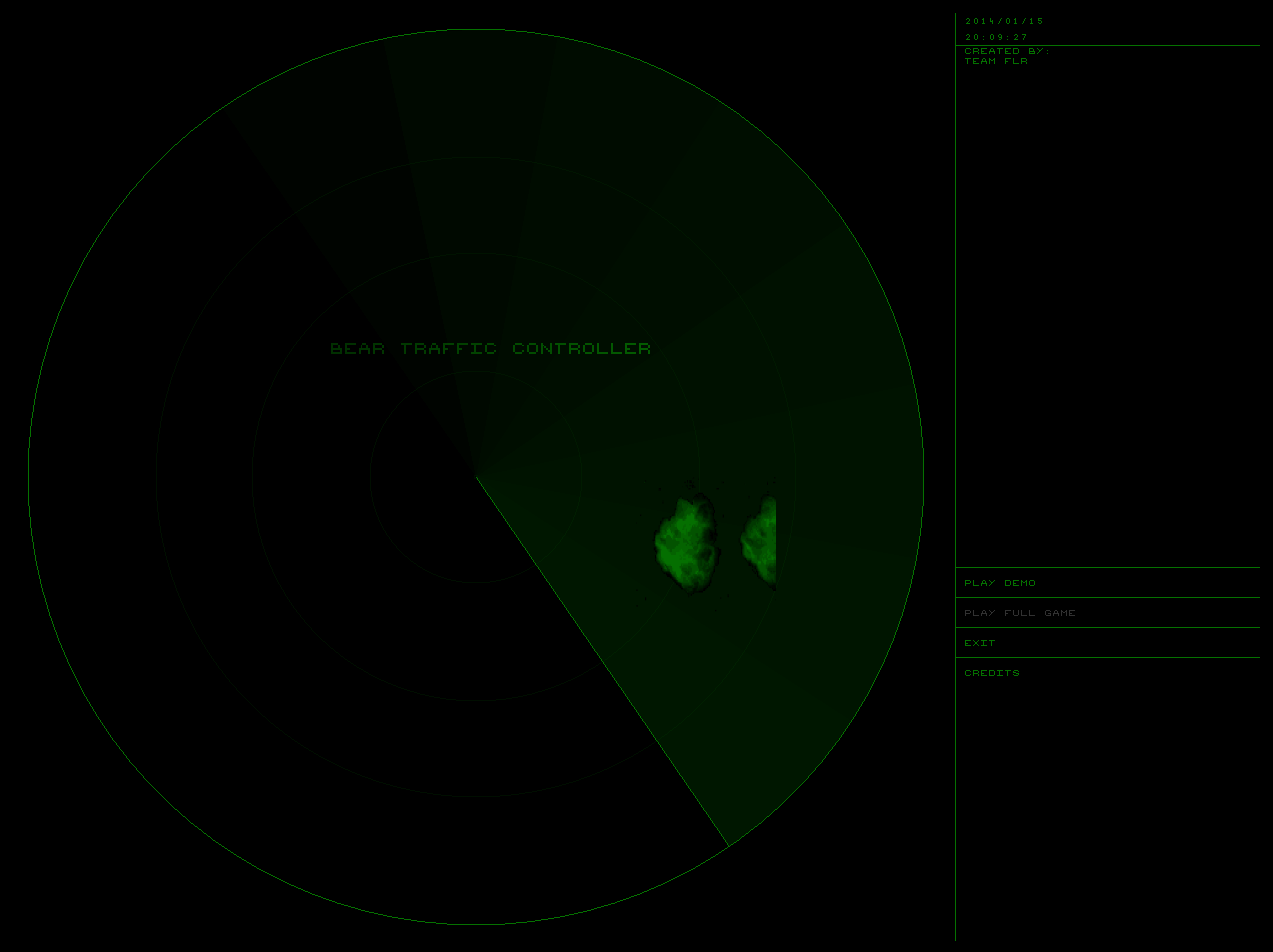
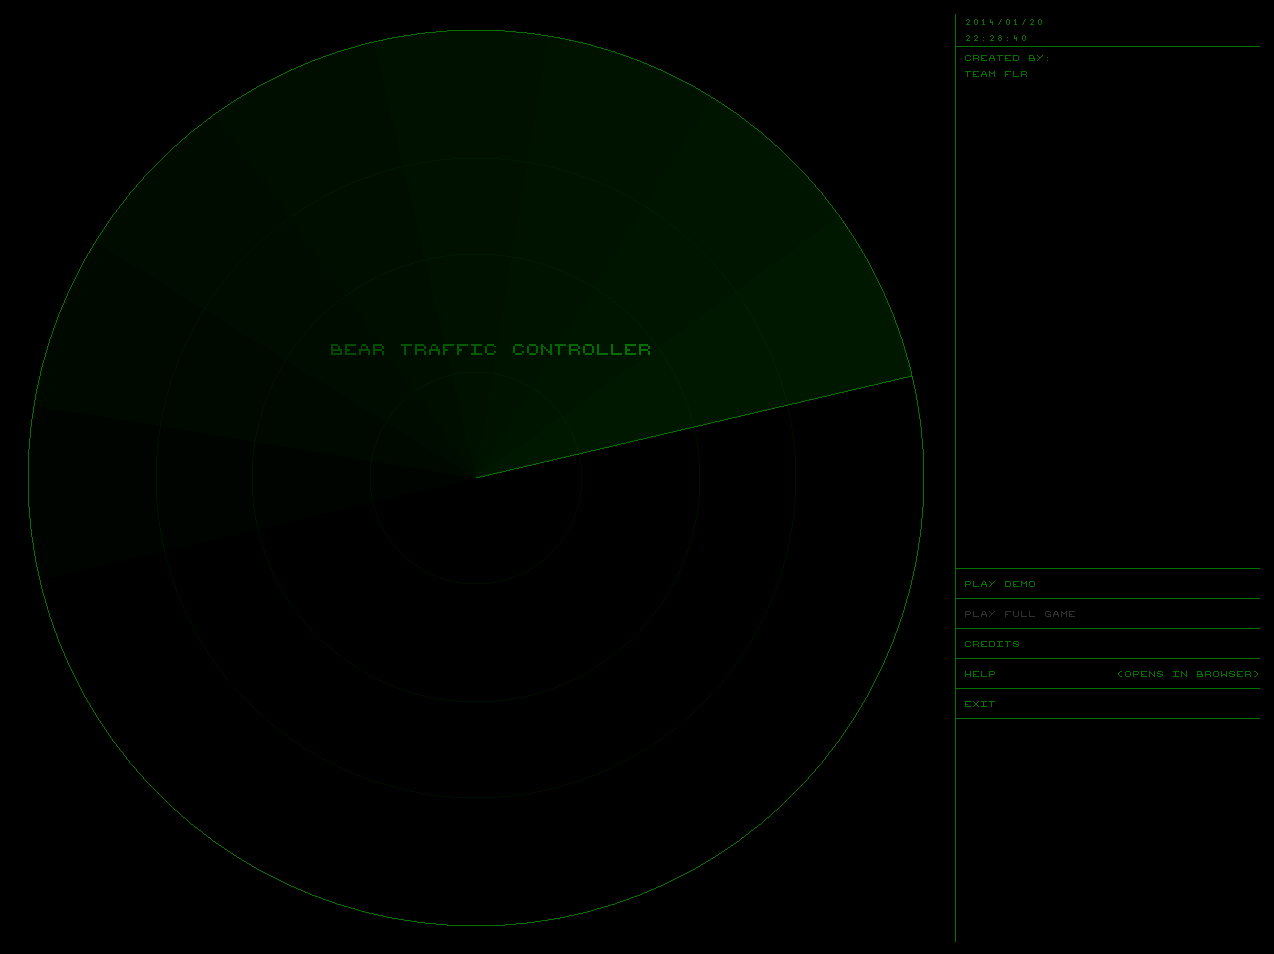
Updated screenshots and user manual

diff --git a/ingamehelp.html b/ingamehelp.html
@@ -99,24 +99,9 @@
     	<div class="col-lg-12" style="text-align: center; padding-top: 40px;">
     		<img style="width:500px;" src="/bear_traffic_controller/img/manual/Difficulty_Selection_Screen.png" alt="Difficulty selection screen screenshot">
         	<h3>Difficulty selection screen</h3>
-          	<p>The difficulty selection screen will explain your characters back story, you should read this if you haven't before. It's also on this screen that you can choose the difficulty level you would like to play at. To select one of these simply click on the relevant button.</p>
+          	<p>The higher the difficult level you select, the faster the planes will move through your airspace and the less time you will have to respond. The tolerances for separation violations will also reduce as you increase the difficulty.</p>
         </div><!-- /.col-lg-12 -->
     </div><!-- /.row -->
-	
-    <div class="row" style="padding-top: 40px;">
-     	<div class="col-lg-4" style="text-align: center;">
-          	<h4>Easy</h4>
-          	<p>Explain what makes each difficult level.</p>
-        </div><!-- /.col-lg-4 -->
-        <div class="col-lg-4" style="text-align: center;">
-          	<h4>Medium</h4>
-          	<p>Explain what makes each difficult level.</p>
-        </div><!-- /.col-lg-4 -->
-        <div class="col-lg-4" style="text-align: center;">
-          	<h4>Hard</h4>
-          	<p>Explain what makes each difficult level.</p>
-        </div><!-- /.col-lg-4 -->
-	</div><!-- /.row -->
      
     <hr> 
      
@@ -168,9 +153,11 @@
 	
 	<div class="row">
     	<div class="col-lg-12" style="text-align: center; padding-top: 40px;">
+    		<img style="height:200px;" src="/bear_traffic_controller/img/manual/Turn_Coordinator.png" alt="Screenshot of turn coordinator">
         	<h3>Changing a plane's altitude</h3>
           	<p>Changing a plane's altitude will move it on to the other altitude layer in the game. This can be useful to prevent crashes or separation violations.</p>
-          	<p>To change the altitude, simply click on the plane and then use your mouse's scroll wheel to toggle between the possible altitudes. The planes current altitude will be updated in the flight description box.</p>
+          	<p>To change the altitude, simply click on the plane and then click the up and down arrows in the turn coordinator box to move it in the respective direction.</p>
+          	<p>To change the control altitude (the altitude that you are currently controlling), simply move the scroll wheel on your mouse up and down. This will then allow you to select planes on different altitudes.</p>
         </div><!-- /.col-lg-12 -->
     </div><!-- /.row -->
 	

diff --git a/usermanual.html b/usermanual.html
@@ -122,23 +122,9 @@
     		<img style="width:500px;" src="/bear_traffic_controller/img/manual/Difficulty_Selection_Screen.png" alt="Difficulty selection screen screenshot">
         	<h3>Difficulty selection screen</h3>
           	<p>The difficulty selection screen will explain your characters back story, you should read this if you haven't before. It's also on this screen that you can choose the difficulty level you would like to play at. To select one of these simply click on the relevant button.</p>
+          	<p>The higher the difficult level you select, the faster the planes will move through your airspace and the less time you will have to respond. The tolerances for separation violations will also reduce as you increase the difficulty.</p>
         </div><!-- /.col-lg-12 -->
     </div><!-- /.row -->
-	
-    <div class="row" style="padding-top: 40px;">
-     	<div class="col-lg-4" style="text-align: center;">
-          	<h4>Easy</h4>
-          	<p>Explain what makes each difficult level.</p>
-        </div><!-- /.col-lg-4 -->
-        <div class="col-lg-4" style="text-align: center;">
-          	<h4>Medium</h4>
-          	<p>Explain what makes each difficult level.</p>
-        </div><!-- /.col-lg-4 -->
-        <div class="col-lg-4" style="text-align: center;">
-          	<h4>Hard</h4>
-          	<p>Explain what makes each difficult level.</p>
-        </div><!-- /.col-lg-4 -->
-	</div><!-- /.row -->
      
     <hr> 
      
@@ -191,9 +177,11 @@
 	
 	<div class="row">
     	<div class="col-lg-12" style="text-align: center; padding-top: 40px;">
+    		<img style="height:200px;" src="/bear_traffic_controller/img/manual/Turn_Coordinator.png" alt="Screenshot of turn coordinator">
         	<h3>Changing a plane's altitude</h3>
           	<p>Changing a plane's altitude will move it on to the other altitude layer in the game. This can be useful to prevent crashes or separation violations.</p>
-          	<p>To change the altitude, simply click on the plane and then use your mouse's scroll wheel to toggle between the possible altitudes. The planes current altitude will be updated in the flight description box.</p>
+          	<p>To change the altitude, simply click on the plane and then click the up and down arrows in the turn coordinator box to move it in the respective direction.</p>
+          	<p>To change the control altitude (the altitude that you are currently controlling), simply move the scroll wheel on your mouse up and down. This will then allow you to select planes on different altitudes.</p>
         </div><!-- /.col-lg-12 -->
     </div><!-- /.row -->
 	

diff --git a/gettingstarted.html b/gettingstarted.html
@@ -106,23 +106,9 @@
     		<img style="width:500px;" src="/bear_traffic_controller/img/manual/Difficulty_Selection_Screen.png" alt="Difficulty selection screen screenshot">
     		<p>&nbsp;</p>
           	<p>The difficulty selection screen will explain your characters back story, you should read this if you haven't before. It's also on this screen that you can choose the difficulty level you would like to play at. To select one of these simply click on the relevant button.</p>
+          	<p>The higher the difficult level you select, the faster the planes will move through your airspace and the less time you will have to respond. The tolerances for separation violations will also reduce as you increase the difficulty.</p>
         </div><!-- /.col-lg-12 -->
     </div><!-- /.row -->
-	
-    <div class="row">
-     	<div class="col-lg-4" style="text-align: center;">
-          	<h4>Easy</h4>
-          	<p>Explain what makes each difficult level.</p>
-        </div><!-- /.col-lg-4 -->
-        <div class="col-lg-4" style="text-align: center;">
-          	<h4>Medium</h4>
-          	<p>Explain what makes each difficult level.</p>
-        </div><!-- /.col-lg-4 -->
-        <div class="col-lg-4" style="text-align: center;">
-          	<h4>Hard</h4>
-          	<p>Explain what makes each difficult level.</p>
-        </div><!-- /.col-lg-4 -->
-	</div><!-- /.row -->
      
     <hr> 
      
